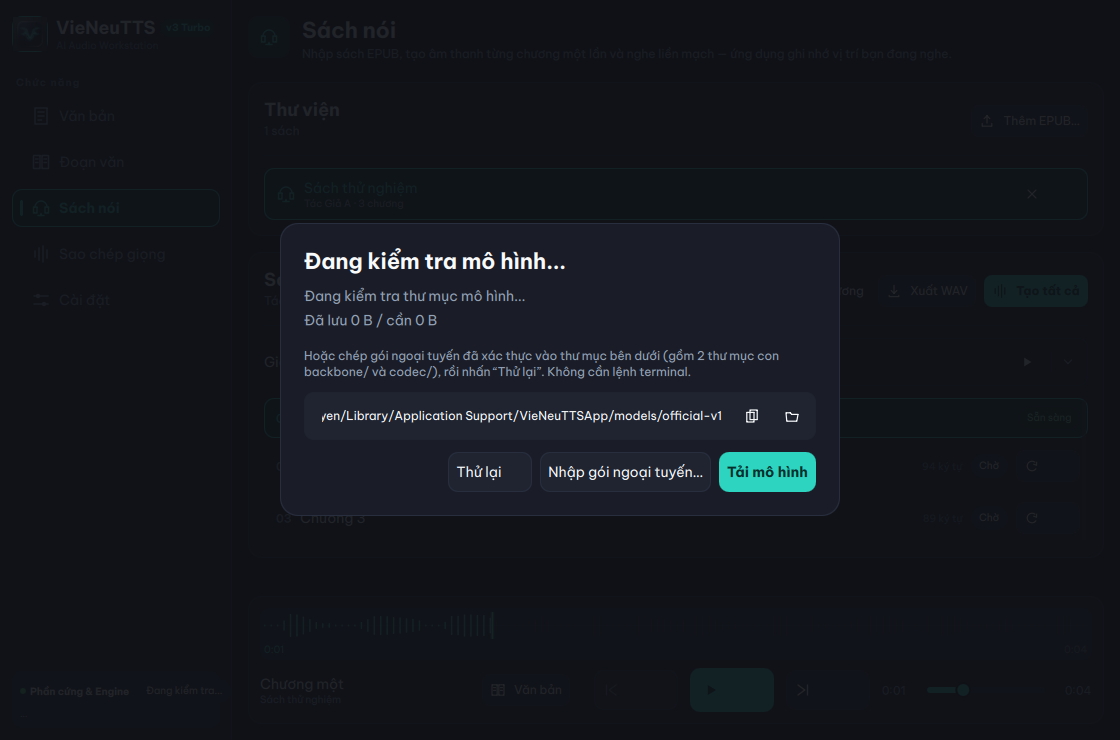
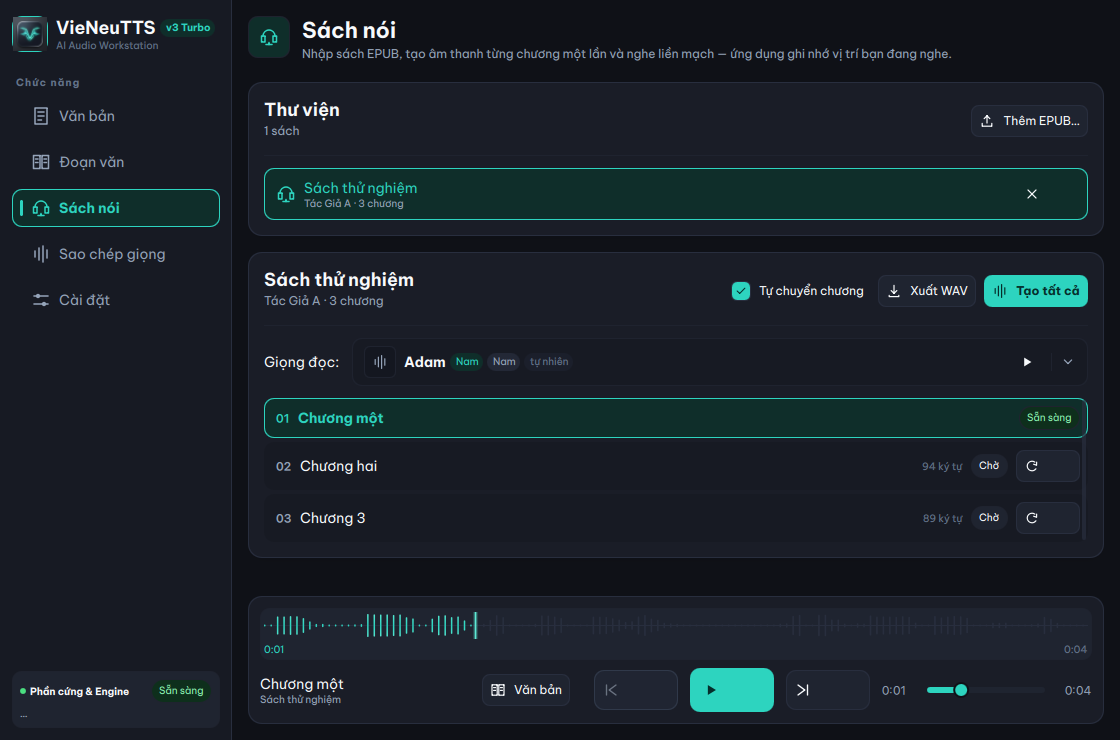
fix(docs): regenerate screenshots without the model onboarding overlay
Every studio screenshot since the model-manager landed showed the
'Dang kiem tra mo hinh' onboarding card covering the workspace:
create_app never schedules the first refreshModelState (that timer
lives in the run_gui path), so the harness app sat in the initial
'checking' state with the overlay up in every grab.

The harness now injects a model manager stub that reports the official
baseline as ready, refreshes model state explicitly and waits for the
overlay to clear. The settings capture scrolls the page (objectName
added to PageShell's ScrollView) so the reading-speed/pause/live-preview
controls and the Appearance section fit the screen-clamped window.

diff --git a/src/vienetts_app/ui/qml/components/PageShell.qml b/src/vienetts_app/ui/qml/components/PageShell.qml
@@ -19,6 +19,7 @@ Item {
 
     ScrollView {
         id: scrollView
+        objectName: "pageScrollView"
         anchors.fill: parent
         contentWidth: availableWidth
         clip: true

diff --git a/scripts/generate_screenshots.py b/scripts/generate_screenshots.py
@@ -36,10 +36,13 @@ from collections.abc import Callable
 from pathlib import Path
 from typing import Any
 
-from PySide6.QtCore import Q_ARG, QMetaObject, QObject
+from PySide6.QtCore import Q_ARG, QMetaObject, QObject, QPointF
+from PySide6.QtQuick import QQuickItem
 
 from vienetts_app.app import create_app
+from vienetts_app.core.model_manager import ModelStatus
 from vienetts_app.ui.audiobook_controller import AudiobookController
+from vienetts_app.ui.controller import AppController
 
 ROOT = Path(__file__).resolve().parents[1]
 FIXTURES = ROOT / "tests" / "fixtures"
@@ -107,7 +110,25 @@ def main() -> int:
     def shot_audiobook(controller: Any) -> AudiobookController:
         return AudiobookController(controller, data_dir=SHOT_LIBRARY_DIR)
 
-    app, engine = create_app(audiobook_factory=shot_audiobook)
+    # This machine synthesizes through the Hugging Face cache, so the
+    # app-managed official install is usually absent — the real manager then
+    # keeps the onboarding overlay ("Đang kiểm tra mô hình...") up and it
+    # photobombs the studio grabs. Docs show the post-setup experience, so
+    # report the official baseline as installed.
+    class _DocsModelManager:
+        def inspect(self) -> ModelStatus:
+            return ModelStatus(
+                state="ready",
+                installed_bytes=327034699,
+                required_bytes=327034699,
+                progress=1.0,
+                error="",
+            )
+
+    def shot_controller() -> AppController:
+        return AppController(model_manager_factory=lambda _data_dir: _DocsModelManager())
+
+    app, engine = create_app(audiobook_factory=shot_audiobook, controller_factory=shot_controller)
     window = engine.rootObjects()[0]
     controller = engine._controller  # noqa: SLF001 — anchored by create_app
     audiobook = engine._audiobook  # noqa: SLF001 — anchored by create_app
@@ -122,6 +143,13 @@ def main() -> int:
     original_language = controller.language
     controller.language = "vi"
     pump(app, 0.6)
+
+    # run_gui schedules the first model inspect 120 ms after first paint;
+    # create_app alone never does, so the onboarding overlay would sit in its
+    # initial "checking" state and cover every grab (the stubbed manager
+    # resolves it to "ready" and the overlay clears).
+    controller.refreshModelState()
+    wait_for(app, lambda: controller.modelReady, 10, "model ready")
 
     saved: list[Path] = []
 
@@ -218,11 +246,25 @@ def main() -> int:
         else:
             grab("audiobook-studio.png")
 
-    # ── Settings: taller window so Synthesis & Audio + Appearance fit ──────
-    tab("settingsTab", "settings")
-    window.setProperty("height", 1440)
+    # ── Settings: scrolled to the speech-tuning half, UI in English ────────
+    # The screen caps the window below the full page height, so one grab
+    # cannot show everything. Anchor the reading-speed control near the top:
+    # the viewport then covers speed/pause/live preview down through the
+    # Appearance (language) section — the parts the README walks through.
+    settings_item = tab("settingsTab", "settings")
+    window.setProperty("height", 1440)  # screen clamps to its visible frame
     controller.language = "en"
     pump(app, 1.0)
+    if settings_item is not None:
+        scroll = child(settings_item, "pageScrollView")
+        speed = settings_item.findChild(QQuickItem, "speedSpin")
+        if scroll is not None and speed is not None:
+            flick = scroll.property("contentItem")
+            if flick is not None:
+                target_y = speed.mapToItem(flick, QPointF(0, 0)).y() - 90
+                max_y = flick.property("contentHeight") - flick.property("height")
+                flick.setProperty("contentY", max(0.0, min(target_y, max_y)))
+                pump(app, 0.4)
     grab("settings.png")
 
     # ── Cleanup: no demo artifacts in the user's real settings/library ──────

diff --git a/README.md b/README.md
@@ -100,7 +100,7 @@ restart.
 
 <p align="center">
   <img src="docs/screenshots/settings.png" width="880"
-       alt="Settings page shown in English" />
+       alt="Settings (English UI): reading speed and sentence-pause sliders, live-preview toggle, and the Appearance section" />
 </p>
 
 ## Status
